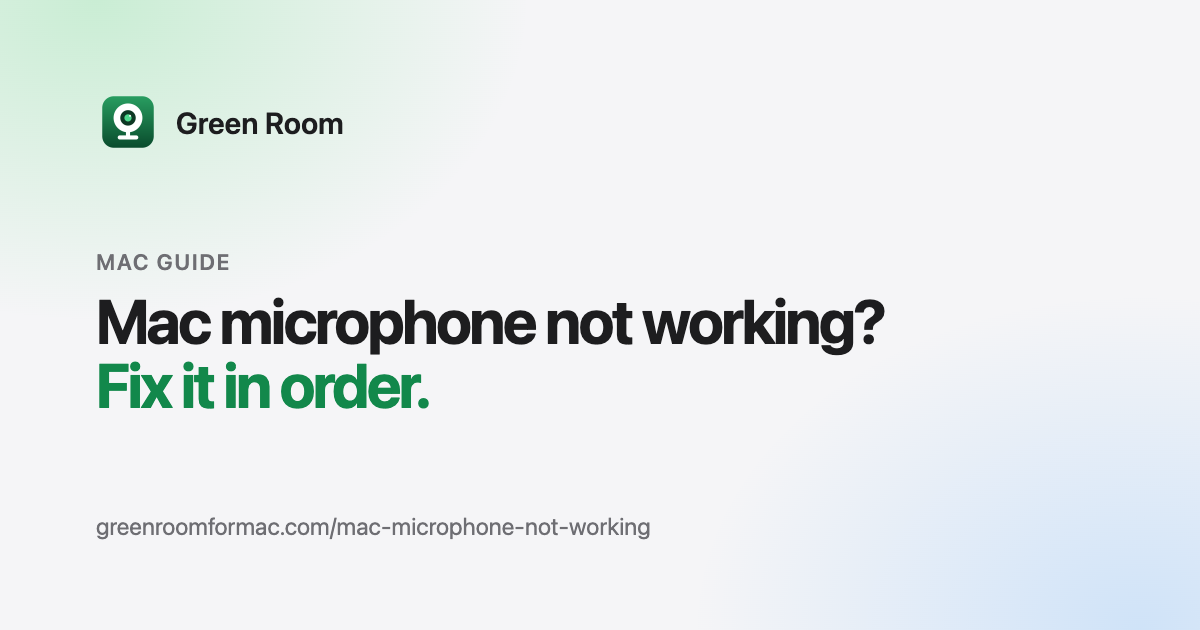
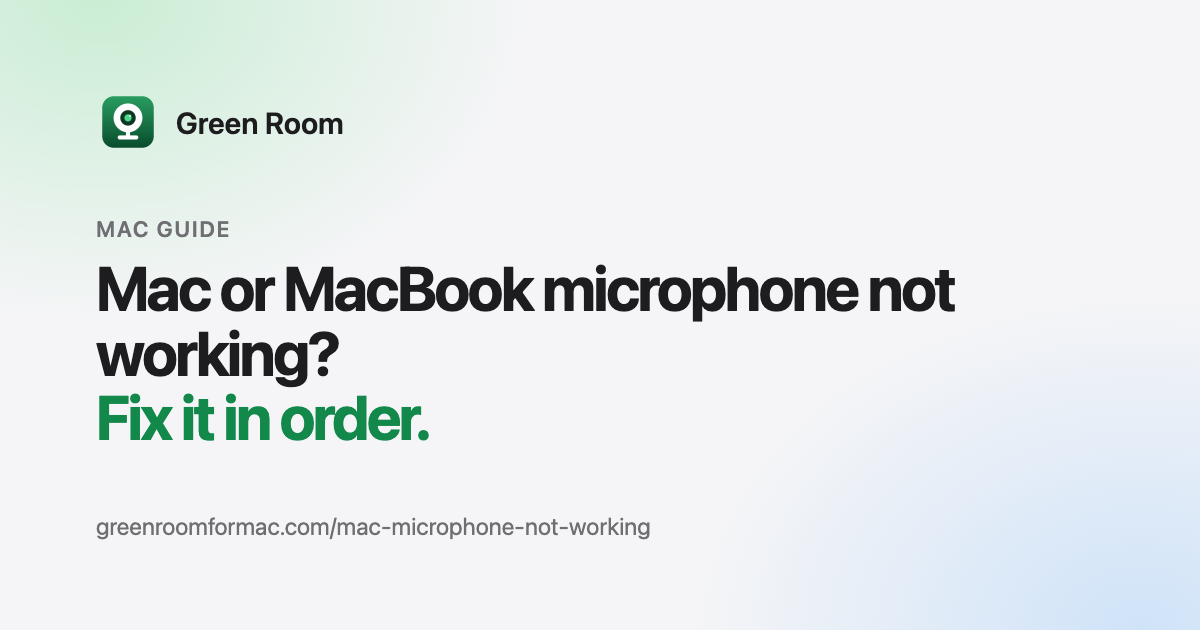
Target MacBook mic searches on the Mac mic guide
MacBook microphone/mic not working gets ~340 US searches a month and the page only said Mac.

Changed region(s): [[0.0617, 0.3317, 0.8017, 0.7238]]

diff --git a/site/mac-microphone-not-working.html b/site/mac-microphone-not-working.html
@@ -3,9 +3,9 @@
 <head>
   <meta charset="utf-8">
   <meta name="viewport" content="width=device-width, initial-scale=1">
-  <title>Mac Microphone Not Working? 8 Fixes, in Order · Green Room</title>
-  <meta name="description" content="Mac mic not picking you up? Check the input setting, app permissions, mute and gain, Bluetooth call mode, and Zoom's own mic choice. Steps for macOS 14 and later.">
-  <meta property="og:title" content="Mac Microphone Not Working? 8 Fixes, in Order">
+  <title>Mac or MacBook Microphone Not Working? 8 Fixes, in Order · Green Room</title>
+  <meta name="description" content="Mac or MacBook mic not picking you up? Check the input setting, app permissions, mute and gain, Bluetooth call mode, and Zoom's own mic choice. Steps for macOS 14 and later.">
+  <meta property="og:title" content="Mac or MacBook Microphone Not Working? 8 Fixes, in Order">
   <meta property="og:description" content="Plain steps for macOS 14 and later: the input setting, permissions, mute and gain, Bluetooth call mode, and Zoom's own mic choice.">
   <meta property="og:image" content="https://greenroomformac.com/images/og/mac-microphone-not-working.png">
   <meta property="og:image:width" content="1200">
@@ -19,7 +19,7 @@
   <link rel="canonical" href="https://greenroomformac.com/mac-microphone-not-working">
   <link rel="stylesheet" href="/site.css">
   <script src="/nav.js" defer></script>
-  <script type="application/ld+json">{"@context": "https://schema.org", "@type": "Article", "headline": "Mac Microphone Not Working? 8 Fixes, in Order", "description": "Plain steps for macOS 14 and later: the input setting, permissions, mute and gain, Bluetooth call mode, and Zoom's own mic choice.", "url": "https://greenroomformac.com/mac-microphone-not-working", "datePublished": "2026-10-14", "dateModified": "2026-10-14", "image": "https://greenroomformac.com/images/og.png", "author": {"@type": "Person", "name": "Corey Haines", "url": "https://corey.co"}, "publisher": {"@type": "Organization", "name": "Green Room", "logo": {"@type": "ImageObject", "url": "https://greenroomformac.com/images/icon.png"}}}</script>
+  <script type="application/ld+json">{"@context": "https://schema.org", "@type": "Article", "headline": "Mac or MacBook Microphone Not Working? 8 Fixes, in Order", "description": "Plain steps for macOS 14 and later: the input setting, permissions, mute and gain, Bluetooth call mode, and Zoom's own mic choice.", "url": "https://greenroomformac.com/mac-microphone-not-working", "datePublished": "2026-10-14", "dateModified": "2026-10-19", "image": "https://greenroomformac.com/images/og.png", "author": {"@type": "Person", "name": "Corey Haines", "url": "https://corey.co"}, "publisher": {"@type": "Organization", "name": "Green Room", "logo": {"@type": "ImageObject", "url": "https://greenroomformac.com/images/icon.png"}}}</script>
   <script src="https://cdn.usefathom.com/script.js" data-site="WDVXMJRM" defer></script>
   <meta name="twitter:image" content="https://greenroomformac.com/images/og/mac-microphone-not-working.png">
 </head>
@@ -40,7 +40,7 @@
     <section class="sub-hero">
       <div class="wrap narrow">
         <p class="kicker"><span class="dot"></span>Mac guide · macOS 14 Sonoma and later</p>
-        <h1>Mac microphone not working? <em>Fix it in order.</em></h1>
+        <h1>Mac or MacBook microphone not working? <em>Fix it in order.</em></h1>
         <p class="lede">Most "they can't hear me" problems are one of a few settings. Start at the top: each step takes under a minute.</p>
       </div>
     </section>
@@ -60,6 +60,14 @@
           <li><b>Watch for Bluetooth call mode.</b>When an app turns on the mic of AirPods or another Bluetooth headset, the headset switches to a two-way call mode and both your voice and what you hear drop to phone quality. To avoid it, keep the headset as your output and choose your Mac's built-in mic or a USB mic as the input.</li>
           <li><b>Restart your Mac.</b>If the mic shows up but stays silent in every app, a restart clears a stuck audio system. Install any pending macOS updates while you're at it.</li>
         </ol>
+
+        <h2>MacBook microphone not working?</h2>
+        <p>The built-in mic on a MacBook Air or MacBook Pro shows up in the Input list as MacBook Air Microphone or MacBook Pro Microphone. A few problems only happen on a laptop.</p>
+        <ul>
+          <li><strong>The lid is closed.</strong> Apple says MacBooks with Apple silicon, and Intel MacBooks with the T2 chip, disconnect the built-in mic in hardware whenever the lid is closed. With an external display and the lid shut, apps get silence from it. Open the lid, or use a USB mic or headset.</li>
+          <li><strong>Something else took over the input.</strong> Plugging in a headset, a USB mic, or a display with a mic can make your Mac switch to it. If the person on the call hears nothing, check that MacBook Pro Microphone (or Air) is still selected in Sound › Input, or pick it in the app.</li>
+          <li><strong>AirPods grabbed the mic.</strong> When AirPods connect, your Mac often switches the input to them too. Pick the MacBook's own mic as the input and keep the AirPods for listening, so they don't drop into call mode.</li>
+        </ul>
 
         <h2>Is the mic in use right now?</h2>
         <p>When any app is using your microphone, macOS shows an orange recording indicator in the menu bar. Open Control Center to see which app it is. If the indicator is on but the person on the call hears nothing, the app is probably using a different mic than the one in front of you (step 6).</p>
